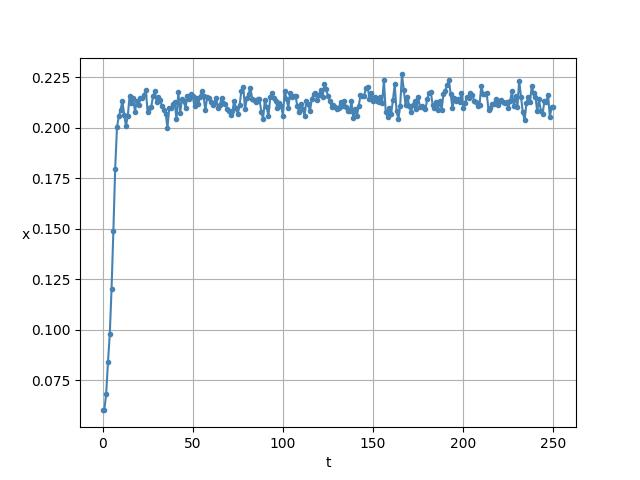
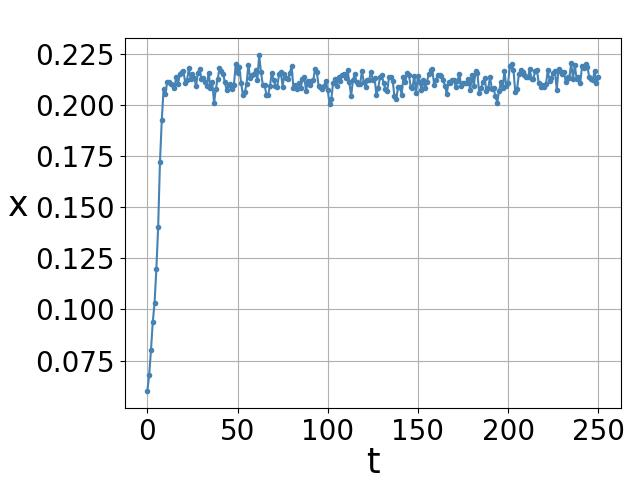
Upd

diff --git a/latex/stochastic.tex b/latex/stochastic.tex
@@ -35,42 +35,41 @@
 
         На временных рядах можно продемонстрировать как различные виды шума влияют на поведение системы.
 
-        На рисунке \ref{time_series_x_0_06_a_1_b_0_56} изображено поведение модели без добавления каких-либо шумов. Видно, что значения переменной \(x\) с течением времени стабилизируются. Численность популяции фактически остается неизменной на протяжении всего длительного времени.
-
-        % \begin{figure}
-        %     \centering
-        %     \includegraphics[width=\textwidth]{stochastic/time_series_x_0_06_a_1_b_0_56.jpg}
-
-        %     \captionsetup{justification=centering}
-        %     \caption{Временной ряд модели (\ref{origin}) при \(\beta = 0.56, \alpha = 1, x_0 = 0.06\)}
-        %     \label{time_series_x_0_06_a_1_b_0_56}
-        % \end{figure}
+        На рисунке \ref{time_series_x_0_06_a_1_b_0_56} изображено поведение модели без добавления каких-либо шумов. Видно, что значения переменной \(x\) с течением времени стабилизируются. Численность популяции фактически остается неизменной.
 
         \begin{figure}
             \centering
-            \subfloat[Нет шума]{
+            \subfloat[Для модели (\ref{origin})]{
                 \includegraphics[width=0.5\textwidth]{stochastic/time_series_x_0_06_a_1_b_0_56.jpg}
                 \label{time_series_x_0_06_a_1_b_0_56}
             }
-            \subfloat[\(\alpha\)-шум]{
+            \subfloat[Для модели (\ref{alpha_chaos})]{
                 \includegraphics[width=0.5\textwidth]{stochastic/time_series_x_0_06_a_1_b_0_56_alpha_chaos_epsilon_0_004.jpg}
                 \label{time_series_x_0_06_a_1_b_0_56_alpha_chaos_epsilon_0_004}
             }  
 
-            \subfloat[\(\beta\)-шум]{
+            \subfloat[Для модели (\ref{beta_chaos})]{
                 \includegraphics[width=0.5\textwidth]{stochastic/time_series_x_0_06_a_1_b_0_56_beta_chaos_epsilon_0_004.jpg}
                 \label{time_series_x_0_06_a_1_b_0_56_beta_chaos_epsilon_0_004}
             }
-            \subfloat[Аддитивный шум]{
+            \subfloat[Для модели (\ref{additive_chaos})]{
                 \includegraphics[width=0.5\textwidth]{stochastic/time_series_x_0_06_a_1_b_0_56_additive_chaos_epsilon_0_004.jpg}
                 \label{time_series_x_0_06_a_1_b_0_56_additive_chaos_epsilon_0_004}
             }
             
-            \caption{Временные ряды}
-            \label{fig_sim1}
+            \caption{Временные ряды при \(\alpha = 1, \beta = 0.56, x_0 = 0.06, \varepsilon = 0.004\)}
         \end{figure}
 
-        Теперь давайте добавим шумы в нашу модель и рассмотрим соответственно рисунки \ref{time_series_x_0_06_a_1_b_0_56_alpha_chaos_epsilon_0_004}, \ref{time_series_x_0_06_a_1_b_0_56_beta_chaos_epsilon_0_004} и \ref{time_series_x_0_06_a_1_b_0_56_additive_chaos_epsilon_0_004}. Все варианты рассматриваются с одной и той же интенсивностью шума \(\varepsilon = 0.004\). 
+        Далее на рисунках \ref{time_series_x_0_06_a_1_b_0_56_alpha_chaos_epsilon_0_004}, \ref{time_series_x_0_06_a_1_b_0_56_beta_chaos_epsilon_0_004}, \ref{time_series_x_0_06_a_1_b_0_56_additive_chaos_epsilon_0_004} представлены временные ряды для различных видов шума: 
+
+        \begin{enumerate}[a)]
+            \setcounter{enumi}{1}
+            \item \(\alpha\)-шум
+            \item \(\beta\)-шум
+            \item аддитивный шум
+        \end{enumerate}
+
+        Все варианты рассматриваются с одной и той же интенсивностью шума \(\varepsilon = 0.004\). 
         
         Мы видим, что вид шума влияет на величину разброса значений численности популяции. \comment{Приплети сюда дисперсию.} И если раньше численность популяции стабилизировалась и переставала хоть сколько-нибудь меняться, то сейчас численность постоянно всегда колеблется, но как можно заметить, она меняется в рамках некоторого коридора значений. Численность популяции в общем то не растет и не уменьшается на какую-то значительную величину. Но такое поведение наблюдается не всегда.
 
@@ -78,34 +77,7 @@
 
         \comment{Можно взять оригинальный временной ряд и на него сверху наложить временной ряд с шумом.}
 
-        \comment{Хорошая фраза: переход вызванный индуцированным шумом}
-
-        % \begin{figure}
-        %     \centering
-        %     \includegraphics[width=\textwidth]{stochastic/time_series_x_0_06_a_1_b_0_56_alpha_chaos_epsilon_0_004.jpg}
-        
-        %     \captionsetup{justification=centering}
-        %     \caption{Временной ряд модели (\ref{alpha_chaos}) при \(\beta = 0.56, \alpha = 1, x_0 = 0.06, \varepsilon = 0.004\)}
-        %     \label{time_series_x_0_06_a_1_b_0_56_alpha_chaos_epsilon_0_004}
-        % \end{figure}
-
-        % \begin{figure}
-        %     \centering
-        %     \includegraphics[width=\textwidth]{stochastic/time_series_x_0_06_a_1_b_0_56_beta_chaos_epsilon_0_004.jpg}
-        
-        %     \captionsetup{justification=centering}
-        %     \caption{Временной ряд модели (\ref{beta_chaos}) при \(\beta = 0.56, \alpha = 1, x_0 = 0.06, \varepsilon = 0.004\)}
-        %     \label{time_series_x_0_06_a_1_b_0_56_beta_chaos_epsilon_0_004}
-        % \end{figure}
-
-        % \begin{figure}
-        %     \centering
-        %     \includegraphics[width=\textwidth]{stochastic/time_series_x_0_06_a_1_b_0_56_additive_chaos_epsilon_0_004.jpg}
-        
-        %     \captionsetup{justification=centering}
-        %     \caption{Временной ряд модели (\ref{additive_chaos}) при \(\beta = 0.56, \alpha = 1, x_0 = 0.06, \varepsilon = 0.004\)}
-        %     \label{time_series_x_0_06_a_1_b_0_56_additive_chaos_epsilon_0_004}
-        % \end{figure}
+        \comment{Хорошая фраза: индуцированный шумом переход}
 
         Для того чтоб продемонстрировать другое возможное поведение, давайте увеличим интенсивность шума. Пускай теперь \(\varepsilon = 0.04\). Рассмотрим рисунок \ref{time_series_x_0_06_a_1_b_0_56_beta_chaos_epsilon_0_04_fall}. Здесь мы видим ситуацию, когда шум оказал негативное влияние на численность популяции. Но опять же все не так просто. Если мы еще раз запустим алгоритм, который просчитывает нашу модель, то мы увидим, что популяция успешно выживала на протяжении анализируемого интервала времени. Данный пример проиллюстрирован на картинке \ref{time_series_x_0_06_a_1_b_0_56_beta_chaos_epsilon_0_04_alive}. Аналогичные эффекты можно наблюдать и при других видах шума.
 

diff --git a/grpah/runner.py b/grpah/runner.py
@@ -156,8 +156,11 @@ def run_time_series_no_noise():
         skip=skip
     )
     (Plotter()
-        .setup_x_label('t')
-        .setup_y_label('x')
+        .adjust(top=0.92, bottom=0.15, left=0.175, right=0.95)
+        .setup_x_label('t', font_size=25, label_pad=0)
+        .setup_x_ticks(font_size=20)
+        .setup_y_label('x', font_size=25, label_pad=12)
+        .setup_y_ticks(font_size=20)
         .setup_grid(grid.major)
         # .setup_title('Time series original')
         .plot(source[0], source[1], '.', colors.steel_blue)
@@ -180,8 +183,11 @@ def run_time_series_beta_noise():
         skip=skip
     )
     (Plotter()
-        .setup_x_label('t')
-        .setup_y_label('x')
+        .adjust(top=0.92, bottom=0.15, left=0.195, right=0.97)
+        .setup_x_label('t', font_size=25, label_pad=0)
+        .setup_x_ticks(font_size=20)
+        .setup_y_label('x', font_size=25, label_pad=12)
+        .setup_y_ticks(font_size=20)
         .setup_grid(grid.major)
         # .setup_title('Time series $\beta$-noise')
         .plot(source[0], source[1], '.', colors.steel_blue)
@@ -204,8 +210,11 @@ def run_time_series_alpha_noise():
         skip=skip
     )
     (Plotter()
-        .setup_x_label('t')
-        .setup_y_label('x')
+        .adjust(top=0.92, bottom=0.15, left=0.175, right=0.95)
+        .setup_x_label('t', font_size=25, label_pad=0)
+        .setup_x_ticks(font_size=20)
+        .setup_y_label('x', font_size=25, label_pad=12)
+        .setup_y_ticks(font_size=20)
         .setup_grid(grid.major)
         # .setup_title('Time series $\alpha$-noise')
         .plot(source[0], source[1], '.', colors.steel_blue)
@@ -228,8 +237,11 @@ def run_time_series_additive_noise():
         skip=skip
     )
     (Plotter()
-        .setup_x_label('t')
-        .setup_y_label('x')
+        .adjust(top=0.92, bottom=0.15, left=0.195, right=0.97)
+        .setup_x_label('t', font_size=25, label_pad=0)
+        .setup_x_ticks(font_size=20)
+        .setup_y_label('x', font_size=25, label_pad=12)
+        .setup_y_ticks(font_size=20)
         .setup_grid(grid.major)
         # .setup_title('Time series additive-noise')
         .plot(source[0], source[1], '.', colors.steel_blue)

diff --git a/grpah/visual/plotter.py b/grpah/visual/plotter.py
@@ -34,12 +34,25 @@ class Plotter:
         plt.xscale(scale)
         return self
 
-    def setup_x_label(self, label, rotation=0):
-        plt.xlabel(label, rotation=rotation)
+    def adjust(self, left=0.125, bottom=0.11, right=0.9, top=0.88, w_space=0.2, h_space=0.2):
+        plt.subplots_adjust(left=left, bottom=bottom, right=right, top=top, wspace=w_space, hspace=h_space)
         return self
 
-    def setup_y_label(self, label, rotation=0):
-        plt.ylabel(label, rotation=rotation)
+    def setup_x_ticks(self, font_size=10, rotation=0):
+        plt.xticks(fontsize=font_size, rotation=rotation)
+        return self
+
+    def setup_x_label(self, label, rotation=0, font_size=10, label_pad=0, location='center'):
+        # plt.xticks(fontsize=14, rotation=90)
+        plt.xlabel(label, rotation=rotation, fontsize=font_size, labelpad=label_pad, loc=location)
+        return self
+
+    def setup_y_ticks(self, font_size=10, rotation=0):
+        plt.yticks(fontsize=font_size, rotation=rotation)
+        return self
+
+    def setup_y_label(self, label, rotation=0, font_size=10, label_pad=0):
+        plt.ylabel(label, rotation=rotation, fontsize=font_size, labelpad=label_pad)
         return self
 
     def plot(self, draw_x, draw_y, marker, color, name=""):

diff --git a/latex/main.tex b/latex/main.tex
@@ -1,22 +1,25 @@
 \documentclass[12pt, a4paper]{article}
 
-%Russian-specific packages
+% Russian-specific packages
 \usepackage[T2A]{fontenc}
 \usepackage[utf8]{inputenc}
 \usepackage[russian,english]{babel}
 
-%Graphics
+% Graphics
 \usepackage{graphicx}
 \graphicspath{{images/}}
 \DeclareGraphicsExtensions{.pdf, .png, .jpg}
 \usepackage{wrapfig}
 
-%Color text
-%Remove for release
+% Color text
+% Remove for release
 \usepackage{color}
 
-%Setup captions for figures
+% Setup captions for figures
 \usepackage{caption}
+
+% Enumerate item 
+\usepackage[shortlabels]{enumitem}
 
 %Math packages
 \usepackage{amsmath}

diff --git a/grpah/main.py b/grpah/main.py
@@ -10,9 +10,9 @@ if __name__ == "__main__":
     # run_time_series_different_noises()
 
     # run_time_series_no_noise()
-    run_time_series_beta_noise()
+    # run_time_series_beta_noise()
     # run_time_series_alpha_noise()
-    # run_time_series_additive_noise()
+    run_time_series_additive_noise()
 
     # run_time_series_compare_noise()
     # run_time_series_without_chaos_composition()

diff --git a/grpah/visual/location.py b/grpah/visual/location.py
@@ -1,0 +1,3 @@
+left = 'left'
+center = 'center'
+right = 'right'
